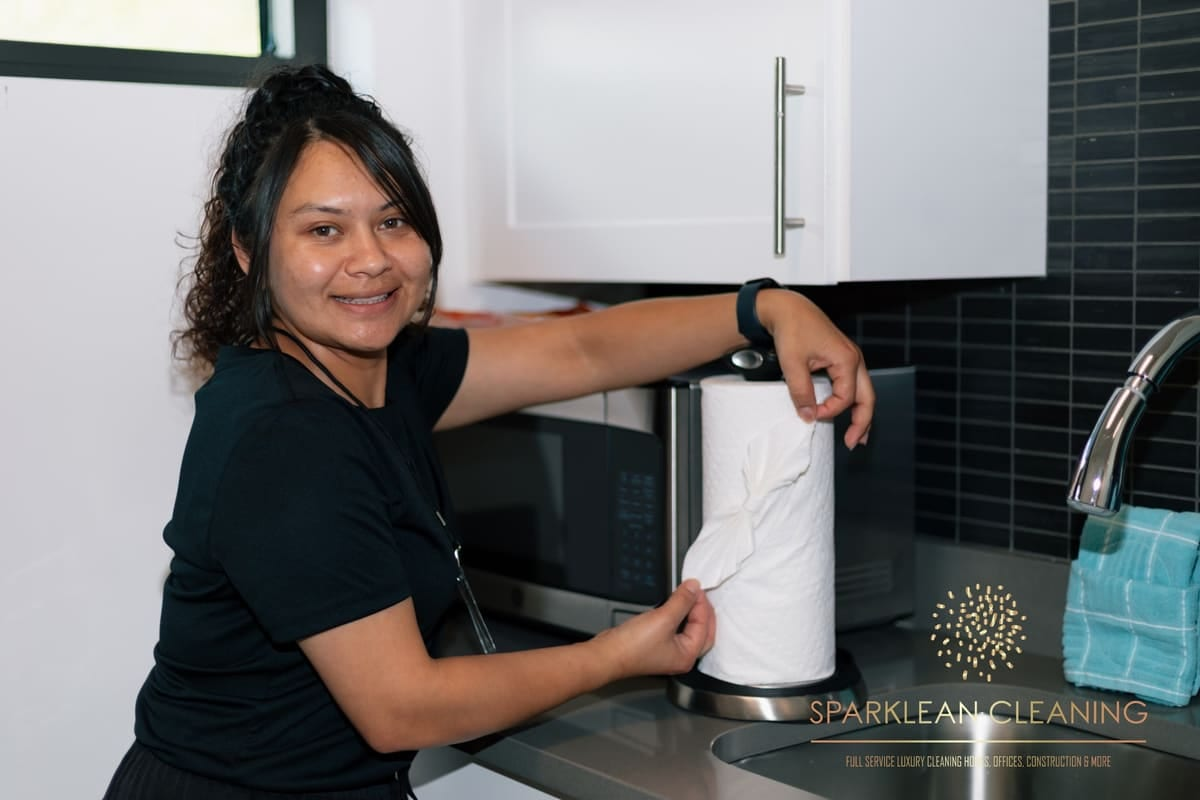
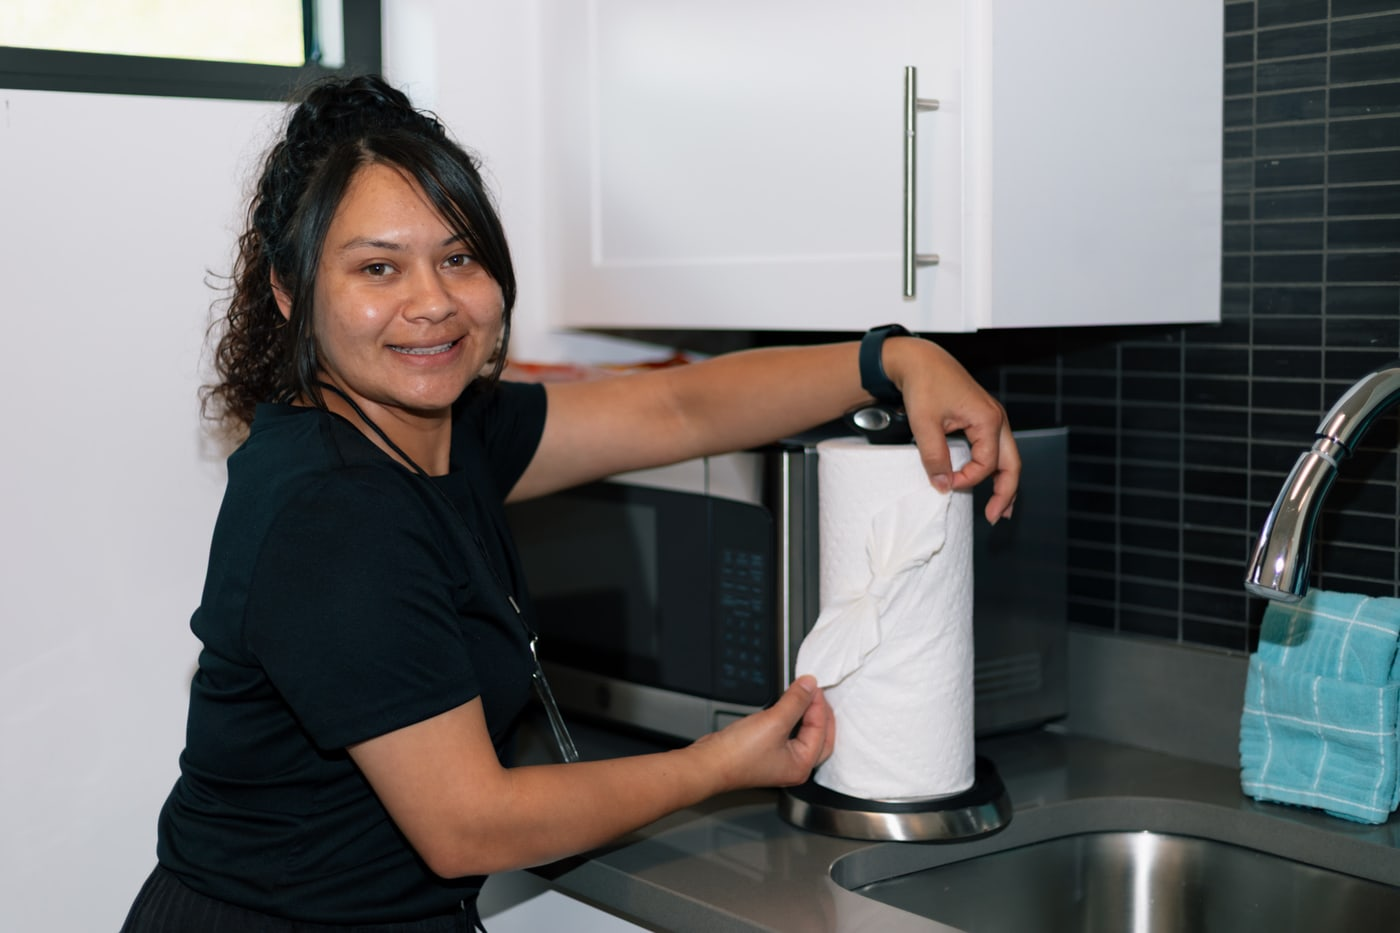
Replace the vacation rental hero with the unwatermarked kitchen photo and restore the gold trust strip.
The Insured icon tag was left unclosed, which collapsed Bonded/Insured/Workers Comp into overlapping desktop layout.

Changed region(s): [[0.6783, 0.875, 0.9558, 0.9688], [0.7708, 0.7188, 0.8633, 0.8438]]

diff --git a/pages/vacation-rental-cleaning.html b/pages/vacation-rental-cleaning.html
@@ -20,13 +20,13 @@
 <meta property="og:title" content="Vacation Rental Cleaning | Sparklean">
 <meta property="og:description" content="Guest-ready vacation rental &amp; Airbnb turnover cleaning across Naples, Fort Myers, Bonita Springs, Estero &amp; Cape Coral. Fast turns, lockbox access. Bonded &amp; insured.">
 <meta property="og:url" content="https://www.sparklean.co/vacation-rental-cleaning">
-<meta property="og:image" content="/images/heroes/vacation-rental-hero-1400.webp">
+<meta property="og:image" content="/images/heroes/vacation-rental-hero-1400.webp?v=2037">
 <meta property="og:image:alt" content="Guest-ready vacation rental cleaning Naples, Bonita Springs, Estero, Fort Myers, and Cape Coral">
 <meta property="og:locale" content="en_US">
 <meta name="twitter:card" content="summary_large_image">
 <meta name="twitter:title" content="Vacation Rental Cleaning | Sparklean">
 <meta name="twitter:description" content="Airbnb &amp; vacation rental turnovers — Naples, Fort Myers, Bonita Springs, Estero &amp; Cape Coral. Lockbox access, guest-ready finishes. Bonded &amp; insured.">
-<meta name="twitter:image" content="/images/heroes/vacation-rental-hero-1400.webp">
+<meta name="twitter:image" content="/images/heroes/vacation-rental-hero-1400.webp?v=2037">
 <meta name="twitter:image:alt" content="Guest-ready vacation rental cleaning Naples, Bonita Springs, Estero, Fort Myers, and Cape Coral">
 <link rel="preconnect" href="https://fonts.googleapis.com">
 <link rel="preconnect" href="https://fonts.gstatic.com" crossorigin>
@@ -47,7 +47,7 @@ nav{position:fixed;top:0;left:0;right:0;z-index:900;height:var(--nav-h);backgrou
 .nav-phone{font-size:.68rem;color:var(--w70);text-decoration:none;transition:color .25s;letter-spacing:.04em}.nav-phone:hover{color:var(--gold-lt)}
 .nav-btn{font-size:.57rem;font-weight:600;letter-spacing:.18em;text-transform:uppercase;color:#0E0E0E;background:var(--gold);padding:11px 22px;text-decoration:none;transition:background .25s}.nav-btn:hover{background:var(--gold-lt)}
 .hero{position:relative;min-height:100vh;display:flex;align-items:center;overflow:hidden;}
-.hero-bg{position:absolute;inset:-2px;background:url('/images/heroes/vacation-rental-hero-1400.jpg') center 30% / cover no-repeat;animation:none;transform:none;}
+.hero-bg{position:absolute;inset:-2px;background:url('/images/heroes/vacation-rental-hero-1400.jpg?v=2037') center 30% / cover no-repeat;animation:none;transform:none;}
 @keyframes zoomIn{from{transform:scale(1.05)}to{transform:scale(1)}}
 .hero-ov{position:absolute;inset:0;background:linear-gradient(to right,rgba(14,14,14,.93) 0%,rgba(14,14,14,.65) 55%,rgba(14,14,14,.2) 100%);}
 .hero-ov::after{content:'';position:absolute;inset:0;background:linear-gradient(to bottom,rgba(14,14,14,.5) 0%,transparent 18%,transparent 65%,rgba(14,14,14,.97) 100%);}
@@ -79,7 +79,7 @@ h1 em{font-style:italic;color:var(--gold)}
 .btn-outline{display:inline-flex;align-items:center;gap:9px;font-size:.58rem;font-weight:500;letter-spacing:.16em;text-transform:uppercase;color:var(--white);border:1px solid rgba(249,247,243,.3);padding:15px 26px;text-decoration:none;transition:border-color .25s,color .25s}
 .btn-outline:hover{border-color:var(--gold);color:var(--gold)}
 .trust{background:var(--gold)}
-.trust-inner{display:flex;align-items:stretch;justify-content:center;max-width:1200px;margin:0 auto;flex-wrap:wrap}
+.trust-inner{display:flex;align-items:stretch;justify-content:center;max-width:1200px;margin:0 auto;flex-wrap:nowrap}
 .trust-item{display:flex;align-items:center;gap:11px;padding:18px 28px;flex:1;min-width:130px}
 .t-icon{font-size:.95rem;color:rgba(14,14,14,.4);flex-shrink:0}
 .t-title{display:block;font-size:.66rem;font-weight:700;letter-spacing:.1em;text-transform:uppercase;color:#0E0E0E;line-height:1}
@@ -322,8 +322,8 @@ footer{background:#0A0A0A;border-top:1px solid rgba(184,164,122,.12);}
 
 <div class="hero-mobile">
  <picture>
- <source type="image/webp" srcset="/images/heroes/vacation-rental-hero-800.webp 800w, /images/heroes/vacation-rental-hero-1400.webp 1400w" sizes="100vw">
- <img class="hero-mobile-img" src="/images/heroes/vacation-rental-hero-1400.jpg" srcset="/images/heroes/vacation-rental-hero-1400.jpg 1400w" sizes="100vw" alt="Vacation rental turnover cleaning Naples, Bonita Springs, Estero, Fort Myers, and Cape Coral" width="1400" height="900" decoding="async" fetchpriority="high">
+ <source type="image/webp" srcset="/images/heroes/vacation-rental-hero-800.webp?v=2037 800w, /images/heroes/vacation-rental-hero-1400.webp?v=2037 1400w" sizes="100vw">
+ <img class="hero-mobile-img" src="/images/heroes/vacation-rental-hero-1400.jpg?v=2037" srcset="/images/heroes/vacation-rental-hero-1400.jpg?v=2037 1400w" sizes="100vw" alt="Vacation rental turnover cleaning Naples, Bonita Springs, Estero, Fort Myers, and Cape Coral" width="1400" height="933" decoding="async" fetchpriority="high">
  </picture>
  <div class="hero-mobile-body">
  <div class="hero-mobile-tag"><div class="hero-mobile-tag-line"></div><span>Vacation Rentals </span></div>
@@ -341,7 +341,7 @@ footer{background:#0A0A0A;border-top:1px solid rgba(184,164,122,.12);}
  <div class="trust-inner">
  <div class="trust-item"><span class="t-icon">🔐</span><div><span class="t-title">Bonded</span><span class="t-sub">Fully Protected</span></div></div>
  <div class="trust-sep"></div>
- <div class="trust-item"><span class="t-icon">🛡</div><div><span class="t-title">Insured</span><span class="t-sub">Liability + W. Comp</span></div></div>
+ <div class="trust-item"><span class="t-icon">🛡</span><div><span class="t-title">Insured</span><span class="t-sub">Liability + W. Comp</span></div></div>
  <div class="trust-sep"></div>
  <div class="trust-item"><span class="t-icon">✅</span><div><span class="t-title">Workers' Comp</span><span class="t-sub">Full Coverage</span></div></div>
  <div class="trust-sep"></div>

diff --git a/docs/EMAIL_ASSETS.md b/docs/EMAIL_ASSETS.md
@@ -11,7 +11,7 @@ These filenames are permanent. Do not rename files in `email-assets/` once deplo
 | Residential kitchen | `residential-kitchen.jpg` | https://www.sparklean.co/email-assets/residential-kitchen.jpg | Luxury kitchen, oven detail |
 | Luxury home | `luxury-home.jpg` | https://www.sparklean.co/email-assets/luxury-home.jpg | Freestanding tub bathroom |
 | Office cleaning | `office-cleaning.jpg` | https://www.sparklean.co/email-assets/office-cleaning.jpg | Team in conference / office doorway |
-| Vacation rental | `vacation-rental.jpg` | https://www.sparklean.co/email-assets/vacation-rental.jpg | Hospitality finishing touch (kitchen) |
+| Vacation rental | `vacation-rental.jpg` | https://www.sparklean.co/email-assets/vacation-rental.jpg | Hospitality finishing touch (kitchen); unwatermarked source `1000052037` (2026-08-19) |
 | Window cleaning | `window-cleaning.jpg` | https://www.sparklean.co/email-assets/window-cleaning.jpg | Interior window + SWFL palms |
 | Pressure washing | `pressure-washing.jpg` | https://www.sparklean.co/email-assets/pressure-washing.jpg | **Stand-in** (ladder / glass exterior work) — replace when true pressure-wash photo exists |
 | Construction cleaning | `construction-cleaning.jpg` | https://www.sparklean.co/email-assets/construction-cleaning.jpg | Post-construction / site documentation |

diff --git a/docs/SPARKLEAN_REFERENCE.md b/docs/SPARKLEAN_REFERENCE.md
@@ -2,7 +2,7 @@
 
 **Read this first** in any new Cursor chat about Sparklean Cleaning (`https://www.sparklean.co/`).
 
-Last updated: **2026-08-19** (commercial 24h badge off the vacuuming tech’s face)
+Last updated: **2026-08-19** (vacation rental hero swapped to unwatermarked paper-towel finish photo `1000052037`)
 
 ---
 
